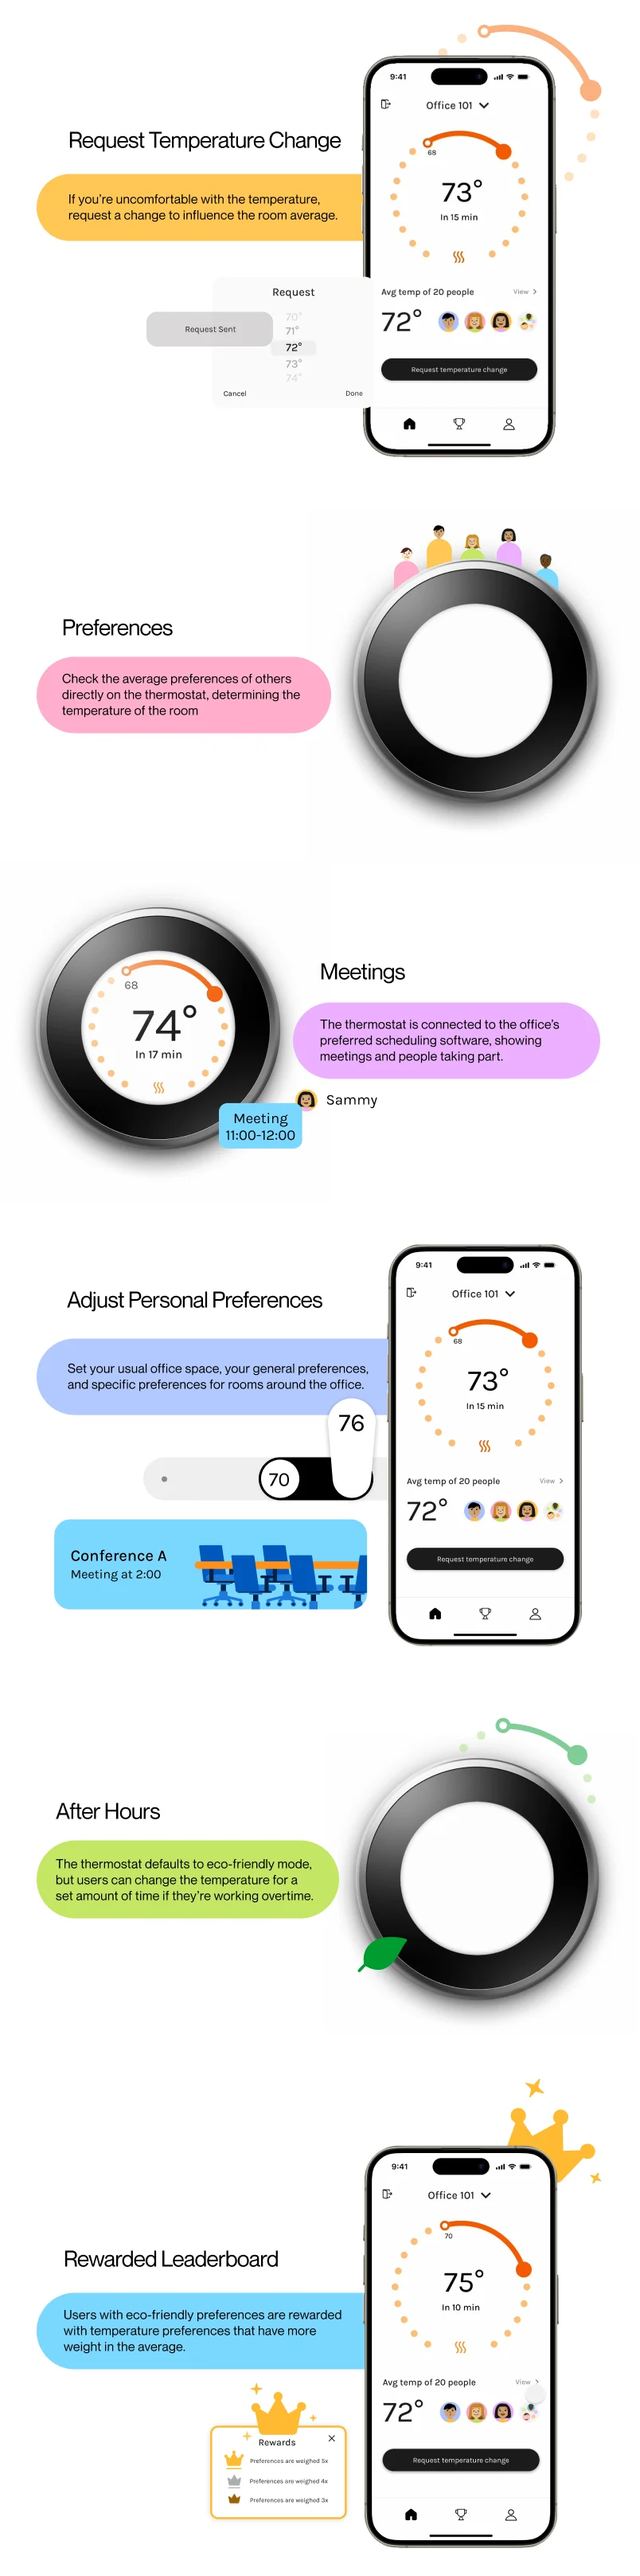
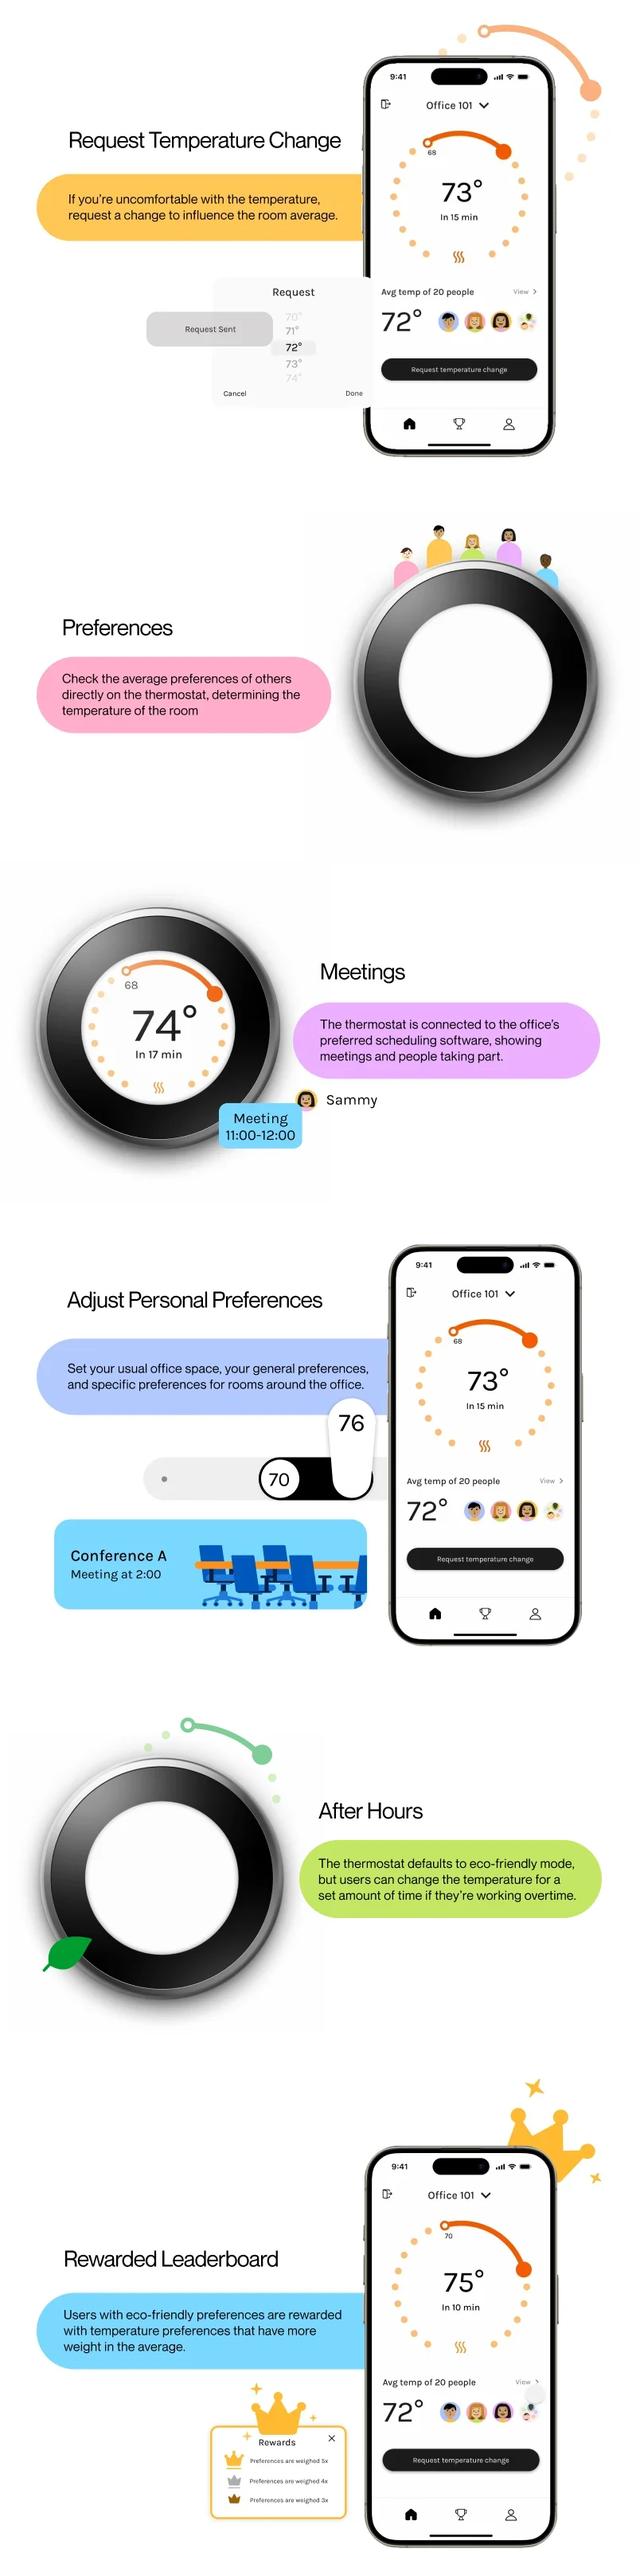
Mobile nest: new After Hours layout, no stray lines above the traits, hero centred at the top, Home label until Overview

Changed region(s): [[0.0311, 0.6558, 0.9639, 0.7808]]

diff --git a/src/components/nest/MobileNestOverlay.tsx b/src/components/nest/MobileNestOverlay.tsx
@@ -19,8 +19,6 @@ const LABEL_STEP = 85;
 // "skip to the end" pill widths: "Skip to final product" and "Scroll back up".
 const SKIP_WIDTH = 199.8;
 const BACK_WIDTH = 162.8;
-// The home button shows its label this long before closing up to the star.
-const HOME_LABEL_MS = 2000;
 
 const label = "nm text-[16px] leading-normal tracking-[-0.32px] whitespace-nowrap";
 
@@ -73,32 +71,22 @@ export default function MobileNestOverlay({ zoom, lift = 0 }: { zoom: number; li
   const [homeLabel, setHomeLabel] = useState(true);
   const atFinal = section === FINAL;
 
-  // The label's moment starts once the loading screen has gone.
+  // "Home" shows until the page is scrolled down to Overview (its top three
+  // quarters of the way up the screen); there it closes up to the star, and
+  // it comes back above Overview.
   useEffect(() => {
-    // While the loader covers the page the label waits, shown; it starts
-    // counting once the loader goes (and again if the loader comes back).
-    let timer = 0;
-    let frame = 0;
-    const loader = document.querySelector("[data-page-loader]");
-    const sync = () => {
-      if (loader?.getAttribute("aria-hidden") === "false") {
-        window.clearTimeout(timer);
-        timer = 0;
-        setHomeLabel(true);
-      } else if (!timer) {
-        timer = window.setTimeout(() => setHomeLabel(false), HOME_LABEL_MS);
-      }
+    const update = () => {
+      const overview = (MOBILE_NEST_SECTIONS[0].top - lift) * zoom;
+      setHomeLabel(overview > window.scrollY + window.innerHeight * 0.75);
     };
-    const observer = new MutationObserver(sync);
-    if (loader) observer.observe(loader, { attributes: true, attributeFilter: ["aria-hidden"] });
-    // First look once the loader has had a chance to cover the new page.
-    frame = requestAnimationFrame(() => (frame = requestAnimationFrame(sync)));
+    update();
+    window.addEventListener("scroll", update, { passive: true });
+    window.addEventListener("resize", update);
     return () => {
-      observer.disconnect();
-      cancelAnimationFrame(frame);
-      window.clearTimeout(timer);
+      window.removeEventListener("scroll", update);
+      window.removeEventListener("resize", update);
     };
-  }, []);
+  }, [zoom, lift]);
 
   useEffect(() => {
     const update = () => setSection(currentSection(zoom, lift));

diff --git a/src/site/nestMobile.ts b/src/site/nestMobile.ts
@@ -48,15 +48,15 @@ export const MOBILE_FINAL_VIDEOS: FinalVideo[] = [
   { src: video("locked-therm"), box: [222.5, 9316.74, 153, 153], crop: [0.13384, 0.14054, 0.70031, 0.6838], clip: [222.5, 9316.74, 153, 153, 76.5] },
   { src: video("conference-therm"), box: [22.5, 9534.74, 153.55, 153], crop: [0.14684, 0.1414, 0.70127, 0.68257], clip: [22.5, 9534.74, 153.55, 153, 76.5] },
   { src: video("conference-pref-phone"), box: [242, 9747.24, 124.5, 252.5], crop: [0.23447, 0.05342, 0.499, 0.89315], clip: [243, 9746.74, 123.5, 252.5, PHONE_RADIUS] },
-  { src: video("eco-friendly-therm"), box: [223, 10068.74, 153.5, 153], crop: [0.1038, 0.07224, 0.76962, 0.80755], clip: [223, 10068.74, 153.5, 153, 76.75] },
+  { src: video("eco-friendly-therm"), box: [25, 10068.74, 153.5, 153], crop: [0.1038, 0.07224, 0.76962, 0.80755], clip: [25, 10068.74, 153.5, 153, 76.75] },
   { src: video("pref-leaderboard"), box: [228, 10312.93, 123.32, 252.5], crop: [0.24161, 0.03915, 0.5042, 0.91111], clip: [228, 10312.93, 123, 252.5, PHONE_RADIUS] },
 ];
 // Layers that sit above those videos in Figma: [file, x, y, w, h].
 export const MOBILE_ABOVE_VIDEO = [
   ["over-request.png", 133.5, 9139.7, 102, 82.5],
   ["over-meeting.png", 137.5, 9658.4, 52.5, 28.5],
-  ["over-dial.svg", 228, 10023.4, 176, 179],
-  ["over-leaf.png", 224.7, 10182.2, 31, 22.5],
+  ["over-dial.svg", 30, 10023.4, 176, 179],
+  ["over-leaf.png", 26.7, 10182.2, 31, 22.5],
 ] as const;
 
 // "moodboard" (352 x 326 at 24, 2666.5): [desktop image index, x, y, w, h].

diff --git a/src/pages/MobileNest.tsx b/src/pages/MobileNest.tsx
@@ -118,8 +118,7 @@ export default function MobileNest() {
   return (
     <div className="relative w-full overflow-x-clip bg-white">
       <div className="relative" style={{ width: WIDTH, height: MOBILE_NEST_HEIGHT - lift, zoom }}>
-        {/* the hero, shrunk on short screens and held to the right edge, so
-            the pills still run off the screen */}
+        {/* the hero, shrunk on short screens, kept at the top and centred */}
         <FadeUp onLoad>
           <img
             alt=""
@@ -127,7 +126,7 @@ export default function MobileNest() {
             src={MOBILE_NEST_HERO.src}
             style={{
               top: MOBILE_NEST_HERO.top,
-              right: 0,
+              left: (WIDTH - MOBILE_NEST_HERO.width * heroScale) / 2,
               width: MOBILE_NEST_HERO.width * heroScale,
               height: MOBILE_NEST_HERO.height * heroScale,
             }}
